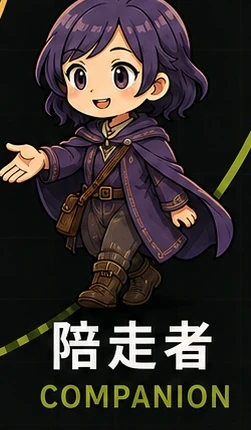
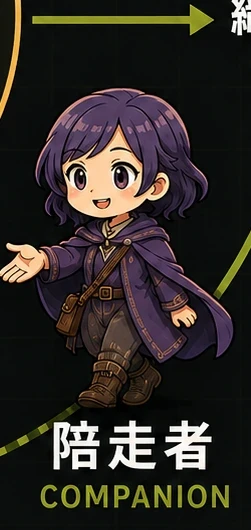
Refine event archetype cards

diff --git a/public/assets/css/main.css b/public/assets/css/main.css
@@ -5626,6 +5626,7 @@ textarea.form__control {
   padding: 0;
 }
 .event-legend__media {
+  position: relative;
   display: grid;
   place-items: center;
   width: 100%;
@@ -5639,6 +5640,8 @@ textarea.form__control {
   transition: border-color 160ms ease-out;
 }
 .event-legend__art {
+  position: absolute;
+  inset: 0.25rem;
   display: block;
   width: calc(100% - 0.5rem);
   height: calc(100% - 0.5rem);
@@ -5661,6 +5664,8 @@ textarea.form__control {
   font-family: var(--font-mono);
   font-size: 13px;
   line-height: 1.45;
+  word-break: keep-all;
+  text-wrap: balance;
   letter-spacing: 0.06em;
   text-transform: uppercase;
   opacity: 0.7;
